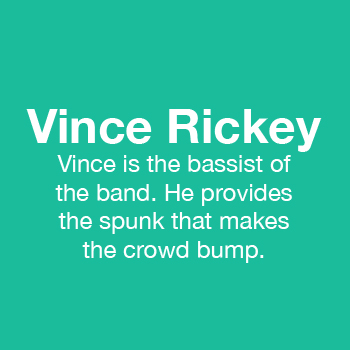
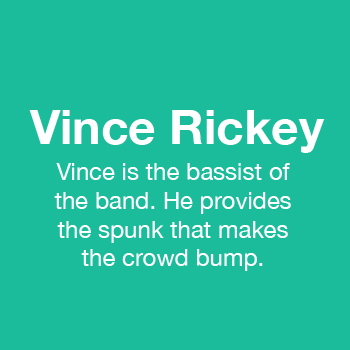
Added 350px img bios for band members and picture thumbnails for press.

Changed region(s): [[0.0571, 0.3143, 0.9429, 0.7714]]

diff --git a/band.html b/band.html
@@ -116,12 +116,7 @@
 
       <div class="row">
             <div class="span6">
-                <div class="palette palette-peter-river">
-                            <div class="type">
-                                <h3 class="demo-panel-title">Matt Nguyen</h3>
-                                <p>Matt is the second guitarist of the band. He is the newest addition (and therefore not as loved as the rest, but equally important).</p>
-                            </div>
-                </div>
+                <img src="/images/boy_things/matt_bio.jpg" alt="matt_bio" height="350" width="350">
             </div>
             <div class="span6">
                 <img src="/images/boy_things/Matt_Crop_2.jpg" alt="Matt" height="350" width="350">
@@ -133,23 +128,13 @@
                 <img src="/images/boy_things/Beth_Crop.jpg" alt="Beth" height="350" width="350">
             </div>
             <div class="span6">
-                <div class="palette palette-amethyst">
-                            <div class="type">
-                                <h3 class="demo-panel-title">Beth Hansen</h3>
-                                <p>Beth is the singer of the band. Everyone loves her. Seriously.</p>
-                            </div>
-                </div>
+                <img src="/images/boy_things/beth_bio.jpg" alt="beth_bio" height="350" width="350">
             </div>
       </div>
 
       <div class="row">
             <div class="span6">
-                <div class="palette palette-sun-flower">
-                            <div class="type">
-                                <h3 class="demo-panel-title">Adam Cumiskey</h3>
-                                <p>Adam is the main guitarist of the band. He is the riff-master.</p>
-                            </div>
-                </div>
+                <img src="/images/boy_things/adam_bio.jpg" alt="adam_bio" height="350" width="350">
             </div>
             <div class="span6">
                 <img src="/images/boy_things/Adam_Crop_2.jpg" alt="Adam" height="350" width="350">
@@ -161,12 +146,7 @@
                 <img src="/images/boy_things/Eric_Crop.jpg" alt="Eric" height="350" width="350">
             </div>
             <div class="span6">
-                <div class="palette palette-wet-asphalt">
-                            <div class="demo-text-box prl">
-                                <h3 class="demo-panel-title">Eric Dryburgh</h3>
-                                <p>Eric is the dummer of the band. He is the serious one..</p>
-                            </div>
-                </div>
+                <img src="/images/boy_things/adam_bio.jpg" alt="adam_bio" height="350" width="350">
             </div>
       </div>
 
@@ -180,7 +160,7 @@
         <div class="span6">
         <ul class="thumbnails">
                 <a href="http://www.mtvu.com/music/boy-things-is-a-boy-band-that-actually-rocks/" class="thumbnail">
-                    <img src="/imgages/boy_things/MTVU_logo.png" alt="MTVU Logo">
+                    <img src="/images/boy_things/MTVU_logo.png" alt="MTVU Logo">
                 </a>
         </ul>
         </div>
@@ -188,7 +168,7 @@
         <div class="span6">
         <ul class="thumbnails">
                 <a href="http://www.nj.com/entertainment/music/index.ssf/2012/07/for_boy_things_warming_up_a_ro.html" class="thumbnail">
-                    <img src="/imgages/boy_things_The_Star-Ledger_logo.png" alt="Star Ledger Logo">
+                    <img src="/images/boy_things/The_Star-Ledger_logo.png" alt="Star Ledger Logo">
                 </a>
            
         </ul>
